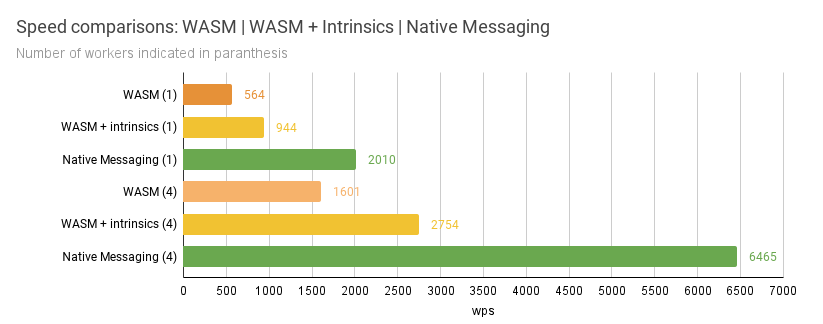
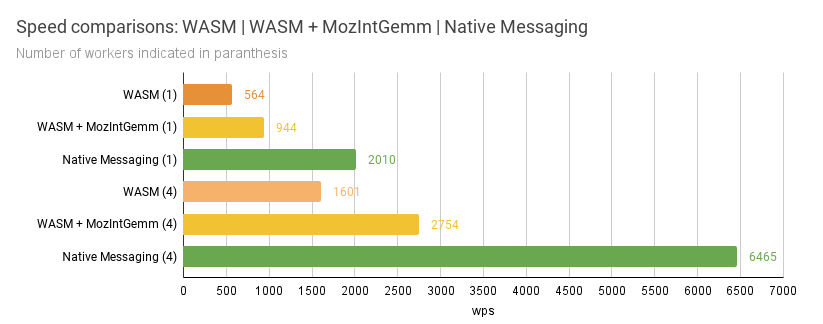
Minor updates

Changed region(s): [[0.3949, 0.0617, 0.729, 0.1235], [0.0304, 0.679, 0.2126, 0.7099], [0.0304, 0.3704, 0.2126, 0.4012]]

diff --git a/README.md b/README.md
@@ -40,7 +40,8 @@ We provide bindings to Python and JavaScript through WebAssembly.
 #### Python
 
 This repository provides a python module which also comes with  a command-line
-interface to use available models. The module is available to install through PyPI for Linux and MacOS at the moment.
+interface to use available models. The module is available to install through
+PyPI for Linux and MacOS at the moment.
 
 
 ```bash
@@ -70,11 +71,12 @@ works locally in your modern browser see
 
 WebAssembly is slower due to lack of optimized matrix-multiply primitives.
 Nightly builds of Mozilla Firefox have faster GEMM (Generalized Matrix
-Multiplication) capabilities and are expected to be slightly faster. 
-The browser environment can also use Native Messaging as a third option to translate web-pages locally, which is the fastest at the moment. 
+Multiplication) capabilities (MozIntGemm) and are expected to be slightly
+faster.  The browser environment can also use Native Messaging as a third
+option to translate web-pages locally, which is the fastest at the time of
+writing this. 
 
-The
-following chart created from
+The following chart created from
 [jelmervdl/firefox-translations/pull#19](https://github.com/jelmervdl/firefox-translations/pull/19)
 shows how each method compares against one another in terms of words-per-second
 (wps).
